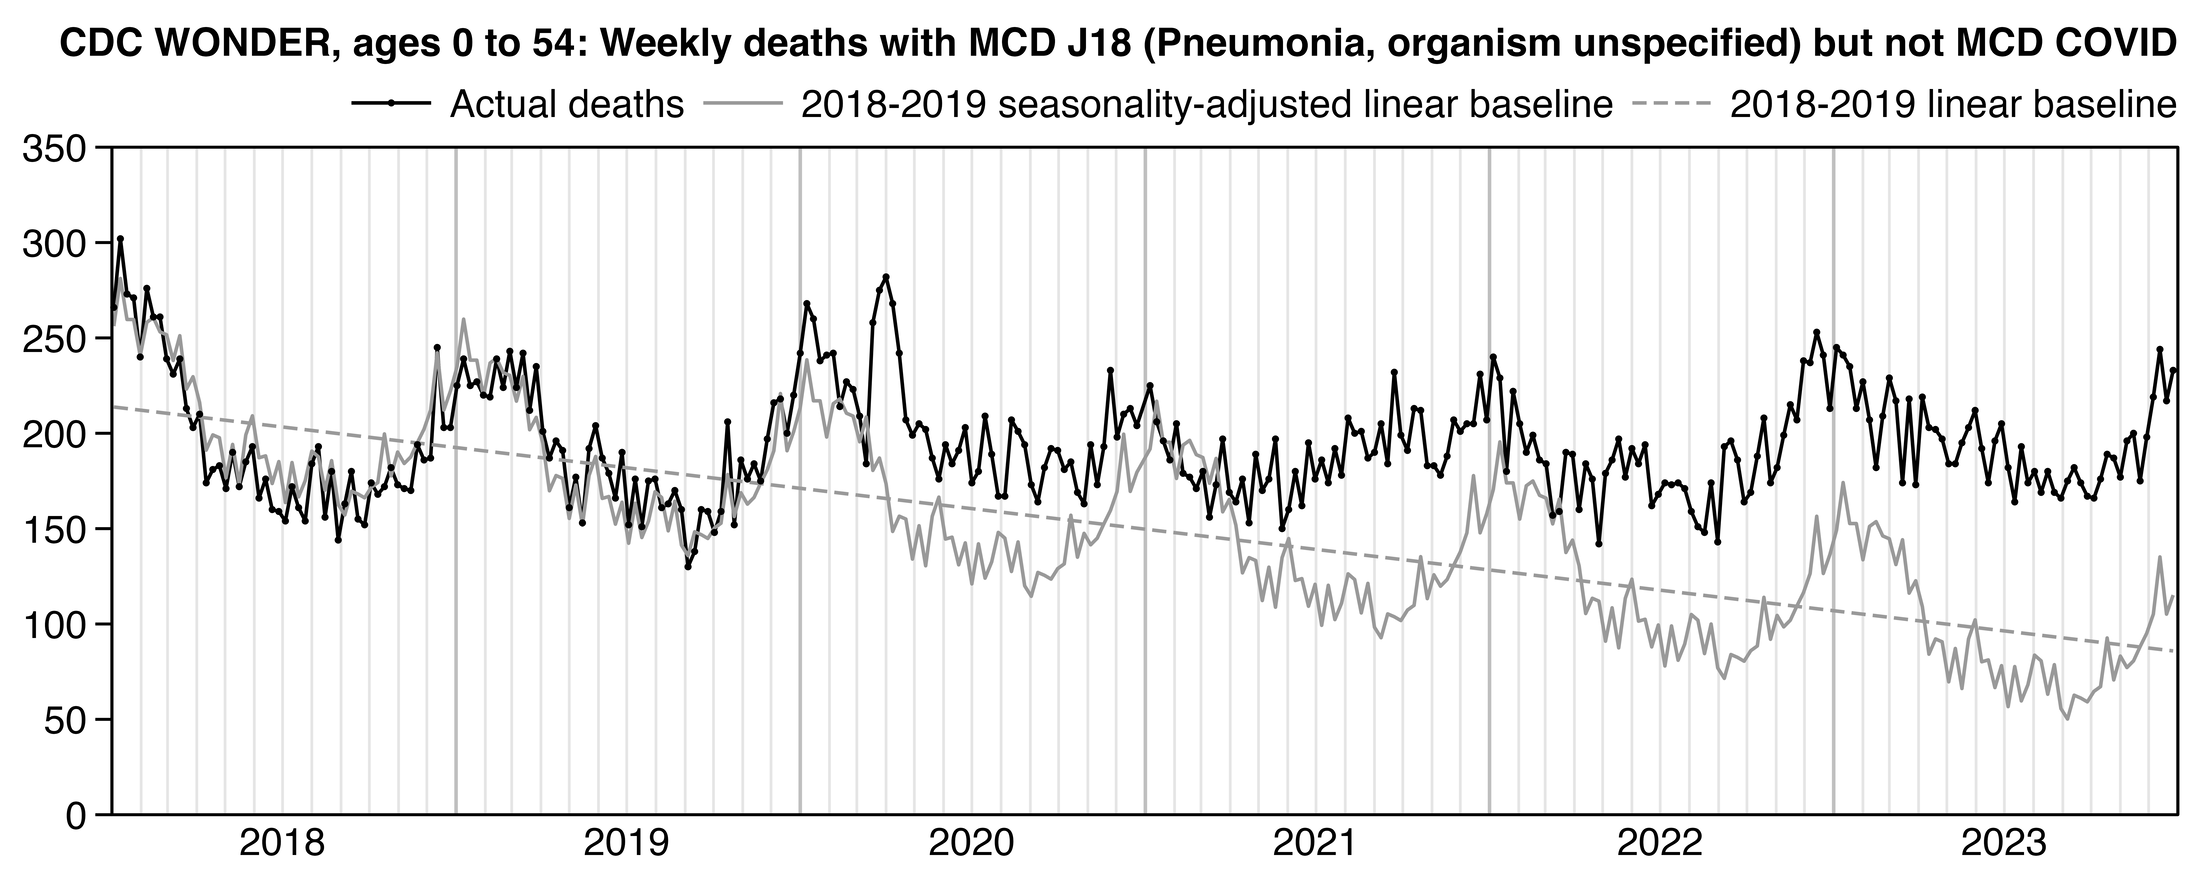
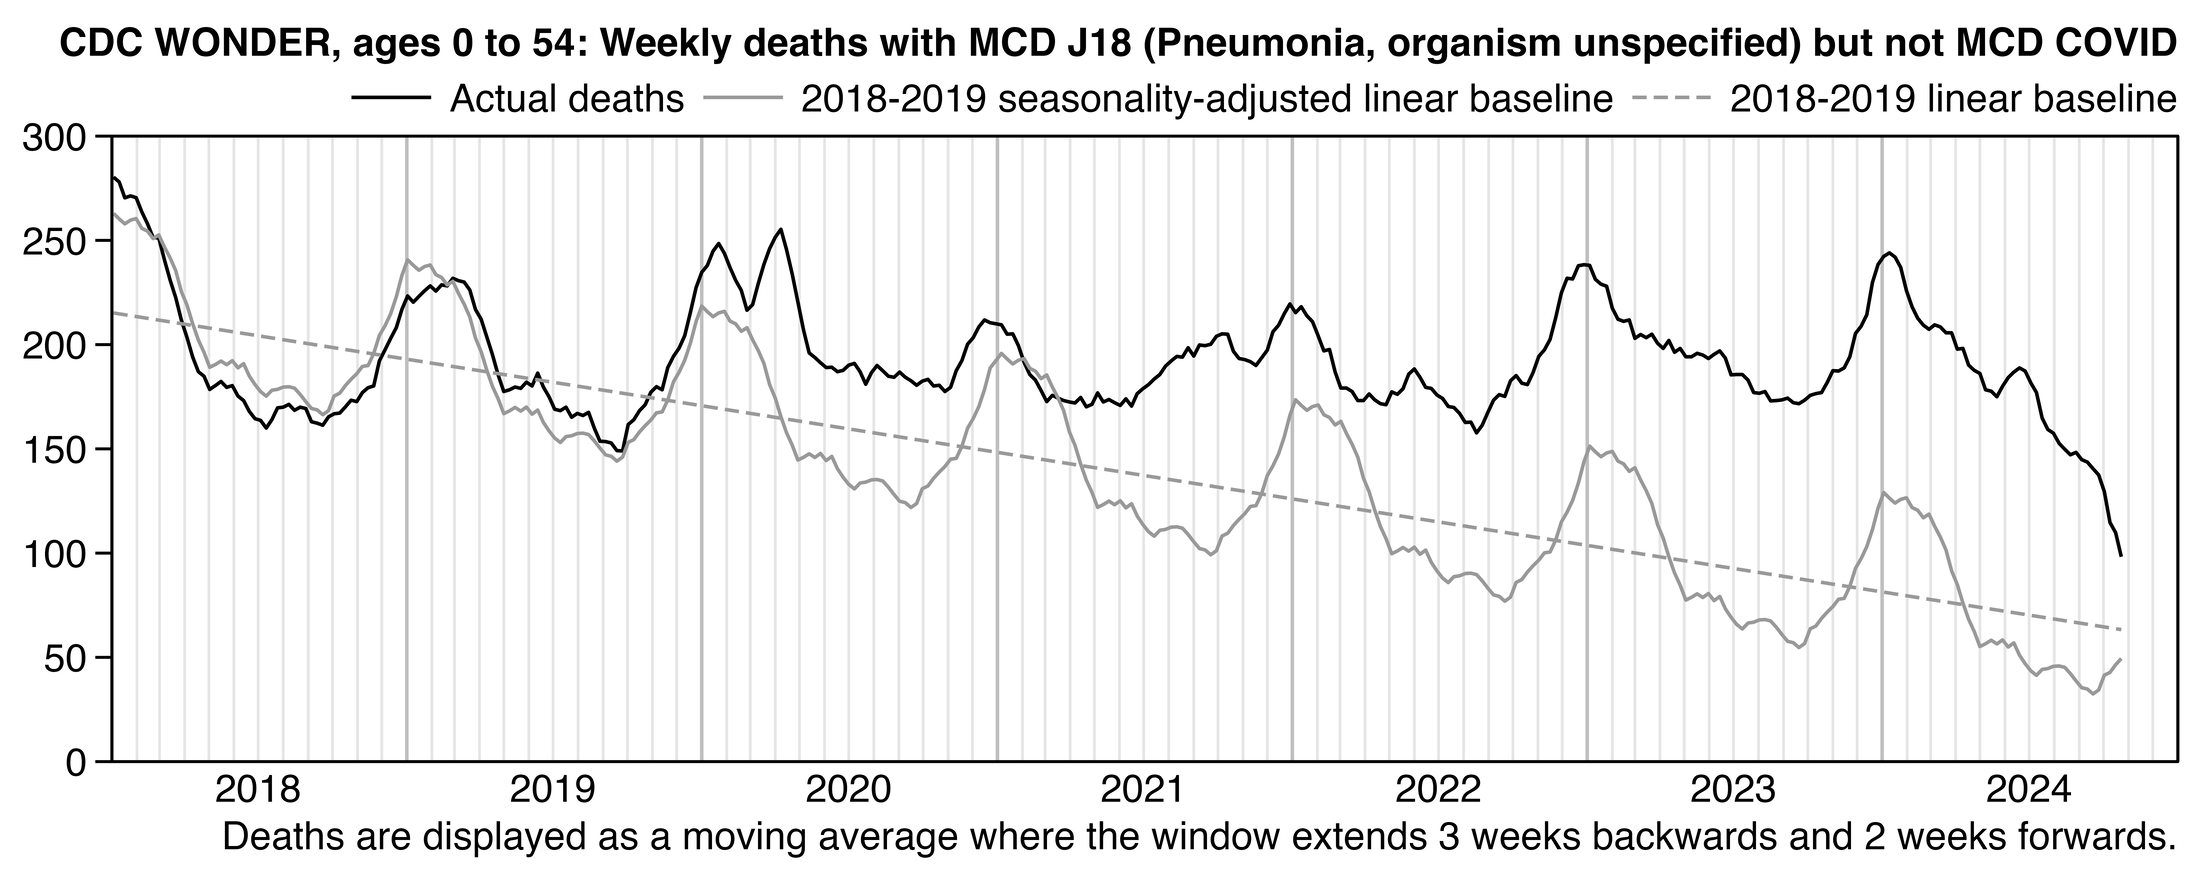
a

Changed region(s): [[0.0, 0.092, 1.0, 0.9818]]

diff --git a/ethical.html b/ethical.html
@@ -2648,23 +2648,6 @@ Deaths from cause
 2024
 </th></tr>
 <tr><td>
-UCD J15.7 (Pneumonia due to Mycoplasma pneumoniae)
-</td><td>
-1-9
-</td><td>
-12
-</td><td>
-12
-</td><td>
-1-9
-</td><td>
-1-9
-</td><td>
-1-9
-</td><td>
-1-9
-</td></tr>
-<tr><td>
 MCD J15.7 (Pneumonia due to Mycoplasma pneumoniae)
 </td><td>
 17
@@ -2732,25 +2715,8 @@ MCD J18 (Pneumonia, organism unspecified) but not MCD COVID (U07)
 </td><td>
 7512
 </td></tr>
-<tr><td>
-UCD J18 (Pneumonia, organism unspecified
-</td><td>
-2608
-</td><td>
-2487
-</td><td>
-2891
-</td><td>
-2517
-</td><td>
-2377
-</td><td>
-2386
-</td><td>
-1680
-</td></tr>
 </table>
-<p>Ethical Skeptic has said that in his plots that display weekly data from 2018 onwards, he fits the baseline against data from only 2018 and 2019, so I suspect it was also the case here. However it probably causes the slope of his baseline to be pointed too much downwards like in my below:</p>
+<p>Ethical Skeptic has said that in his plots that display weekly data from 2018 onwards, he fits the baseline against data from only 2018 and 2019, so I suspect it was also the case here. However it probably causes the slope of his baseline to be pointed too much downwards like in my plot below:</p>
 <div class="width7">
 <img src="i/ethical-mycoplasma-3.png">
 </div>
@@ -2829,10 +2795,10 @@ ggsave(&quot;1.png&quot;,width=4.2,height=3.7,dpi=400*4)
 system(&quot;magick 1.png -resize 25% 1.png&quot;)
 system(&quot;qlmanage -p ~/1.png&amp;&gt;/dev/null&quot;)</pre>
 </div>
-<p>However I suspect some of the excess deaths with MCD J18 and not MCD COVID may have been due to deaths that included COVID as an undiagnosed contributory cause, because from the second panel of my plot above where I looked at MCD J18 deaths without excluding COVID deaths, you can see that there were about 363% excess deaths in 2021. So if even a small fraction of deaths that should've had MCD COVID were missing a diagnosis for COVID, it might explain several percentage points of excess deaths in the bottom panel that shows deaths with MCD J18 but not MCD COVID.</p>
-<p>And in any case I don't know if the increase in J18 deaths can be attributed to vaccines, because the period with elevated J18 deaths seems to have already started in 2020. In my plot above the percentage of excess deaths for UCD J18 is about 15% in 2020 but close to zero in 2021-2023.</p>
-<p>Ethical Skeptic said that he got about 40% excess deaths relative to his PFE-adjusted baseline, but in the bottom panel of my plot above which shows deaths with MCD J18 but not MCD COVID, I got only about 17% excess deaths in 2023 even relative to the light gray baseline that was fitted against deaths from 2018-2019. However Ethical Skeptic fitted his baseline against weekly data which might cause it to be steeper than my baseline fitted against yearly data, because there there was a high number of deaths in early 2018 and a low number of deaths in late 2019.</p>
-<p>In the next plot I calculated my gray baseline by first doing a linear regression of weekly data on all weeks in the MMWR years 2018 and 2019, and then I calculated the average difference between the actual deaths and the baseline on MMWR week 1 of 2018 and 2019 and I added the difference to the baseline for MMWR week 1 of each year, and similarly for other weeks. My baseline pointed even further downwards than Ethical Skeptic's baseline, so I got over 100% excess deaths on every week in the second half of 2023. But on the other hand I didn't get high excess deaths on the first weeks of 2018 like Ethical Skeptic, but it might be if he excluded early weeks of 2018 from his baseline fitting period, which would also explain why the slope of his baseline was not as extreme as in my plot:</p>
+<p>I suspect some of the excess deaths with MCD J18 and not MCD COVID may have been due to deaths that included COVID as an undiagnosed cause of death, because the number of MCD J18 deaths was about 5 times the baseline level in 2021 but nearly all excess MCD J18 deaths in 2021 also had MCD COVID. So if a diagnosis for COVID was missing for even a small part of deaths that should've had MCD COVID, it might explain a large part of excess deaths in my bottom panel that shows deaths with MCD J18 but not MCD COVID.</p>
+<p>And in any case I don't know if the increase in J18 deaths can be attributed to vaccines, because the period with elevated J18 deaths seems to have already started in 2020. In my plot above the percentage of excess deaths for UCD J18 is about 15% in 2020 but close to zero in 2021, 2022, and 2023.</p>
+<p>Ethical Skeptic said that he got about 40% excess deaths relative to his PFE-adjusted baseline, but in the bottom panel of my plot above which shows deaths with MCD J18 but not MCD COVID, I got only about 20% excess deaths in 2023 even relative to the light gray baseline that was fitted against deaths from 2018-2019. However Ethical Skeptic fitted his baseline against weekly data which might cause it to be steeper than my baseline fitted against yearly data, because there was a high number of deaths in early 2018 and a low number of deaths in late 2019.</p>
+<p>In the next plot I calculated my gray baseline by first doing a linear regression of weekly data for all weeks of the MMWR years 2018 and 2019, and then I calculated the average difference between the actual deaths and the baseline on MMWR week 1 of 2018 and 2019 and I added the difference to the baseline for MMWR week 1 of each year, and similarly for other weeks. My baseline pointed even further downwards than Ethical Skeptic's baseline, so I got over 100% excess deaths on every week in the second half of 2023. But on the other hand I didn't get high excess deaths on the first weeks of 2018 like Ethical Skeptic, which might be if he excluded early weeks of 2018 from his baseline fitting period, which would also explain why the slope of his baseline was not as extreme as in my plot:</p>
 <div class="width10">
 <img src="i/ethical-mycoplasma-4.png">
 </div>
@@ -2841,10 +2807,13 @@ system(&quot;qlmanage -p ~/1.png&amp;&gt;/dev/null&quot;)</pre>
 Show code
 </button><pre>library(data.table);library(ggplot2)
 
+ma=\(x,b=1,f=b){x[]=rowMeans(embed(c(rep(NA,b),x,rep(NA,f)),f+b+1),na.rm=T);x}
+
 t=fread(&quot;http://sars2.net/f/wonderj18weekly.csv&quot;)
 
 t=merge(t[cause==&quot;MCD J18&quot;],t[cause%like%&quot;and&quot;,.(date,and=dead)],all=T)
 p=t[,.(date=date-3,year,week,dead=dead-nafill(and,,0))]
+p[,dead:=ma(dead,3,2)]
 p$base=p[year&lt;2020,predict(lm(dead~date),p)]
 
 z=c(&quot;Actual deaths&quot;,&quot;2018-2019 seasonality-adjusted linear baseline&quot;,&quot;2018-2019 linear baseline&quot;)
@@ -2852,20 +2821,18 @@ p=merge(p[year&lt;2020,mean(dead-base),week],p)[,.(x=date,y=c(dead,base=base+V1,
 p[,z:=factor(z,unique(z))]
 
 ybreak=pretty(p$y)
-xstart=as.Date(&quot;2018-1-1&quot;);xend=as.Date(&quot;2024-1-1&quot;)
-xbreak=seq(xstart,xend,&quot;6 month&quot;);xlab=c(rbind(&quot;&quot;,2018:2023),&quot;&quot;)
+xstart=as.Date(&quot;2018-1-1&quot;);xend=as.Date(&quot;2025-1-1&quot;)
+xbreak=seq(xstart,xend,&quot;6 month&quot;);xlab=c(rbind(&quot;&quot;,2018:2024),&quot;&quot;)
 
 ggplot(p,aes(x,y))+
 geom_vline(xintercept=seq(xstart,xend,&quot;month&quot;),color=&quot;gray90&quot;,linewidth=.23)+
-geom_vline(xintercept=seq(xstart,xend,&quot;year&quot;),color=&quot;gray50&quot;,linewidth=.3)+
+geom_vline(xintercept=seq(xstart,xend,&quot;year&quot;),color=&quot;gray75&quot;,linewidth=.3)+
 geom_line(aes(color=z,linetype=z),linewidth=.3)+
-geom_point(aes(alpha=z),stroke=0,size=.6)+
-labs(x=NULL,y=NULL,title=&quot;CDC WONDER, ages 0 to 54: Weekly deaths with MCD J18 (Pneumonia, organism unspecified) but not MCD COVID&quot;)+
+labs(x=NULL,y=NULL,title=&quot;CDC WONDER, ages 0 to 54: Weekly deaths with MCD J18 (Pneumonia, organism unspecified) but not MCD COVID&quot;,caption=&quot;Deaths are displayed as a moving average where the window extends 3 weeks backwards and 2 weeks forwards.&quot;)+
 scale_x_continuous(limits=c(xstart,xend),breaks=xbreak,labels=xlab)+
 scale_y_continuous(limits=range(ybreak),breaks=ybreak)+
 scale_color_manual(values=c(&quot;black&quot;,&quot;gray60&quot;,&quot;gray60&quot;))+
 scale_linetype_manual(values=c(&quot;solid&quot;,&quot;solid&quot;,&quot;42&quot;))+
-scale_alpha_manual(values=c(1,0,0))+
 coord_cartesian(clip=&quot;off&quot;,expand=F)+
 theme(axis.text=element_text(size=7,color=&quot;black&quot;),
   axis.text.y=element_text(margin=margin(,1.5)),
@@ -2880,7 +2847,7 @@ theme(axis.text=element_text(size=7,color=&quot;black&quot;),
   legend.key=element_rect(fill=alpha(&quot;white&quot;,0)),
   legend.key.height=unit(10,&quot;pt&quot;),
   legend.key.width=unit(18,&quot;pt&quot;),
-  legend.margin=margin(,,3),
+  legend.margin=margin(,,2),
   legend.position=&quot;top&quot;,
   legend.spacing.x=unit(1.5,&quot;pt&quot;),
   legend.spacing.y=unit(0,&quot;pt&quot;),
@@ -2889,8 +2856,9 @@ theme(axis.text=element_text(size=7,color=&quot;black&quot;),
   panel.background=element_blank(),
   panel.border=element_rect(fill=NA,linewidth=.25),
   panel.spacing=unit(1,&quot;pt&quot;),
-  plot.margin=margin(3,4,3,4),
-  plot.title=element_text(size=7,face=2,margin=margin(2,,2),hjust=1))
+  plot.margin=margin(4,4,4,4),
+  plot.caption=element_text(size=7,margin=margin(2)),
+  plot.title=element_text(size=7,face=2,margin=margin(1,,1),hjust=1))
 ggsave(&quot;1.png&quot;,width=5.5,height=2.2,dpi=400*4)
 system(&quot;magick 1.png -resize 25% 1.png&quot;)</pre>
 </div>
